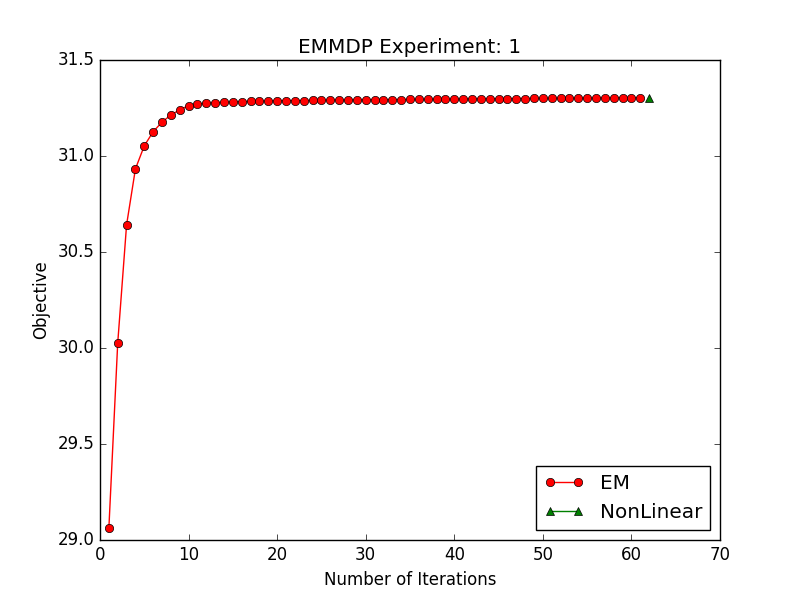
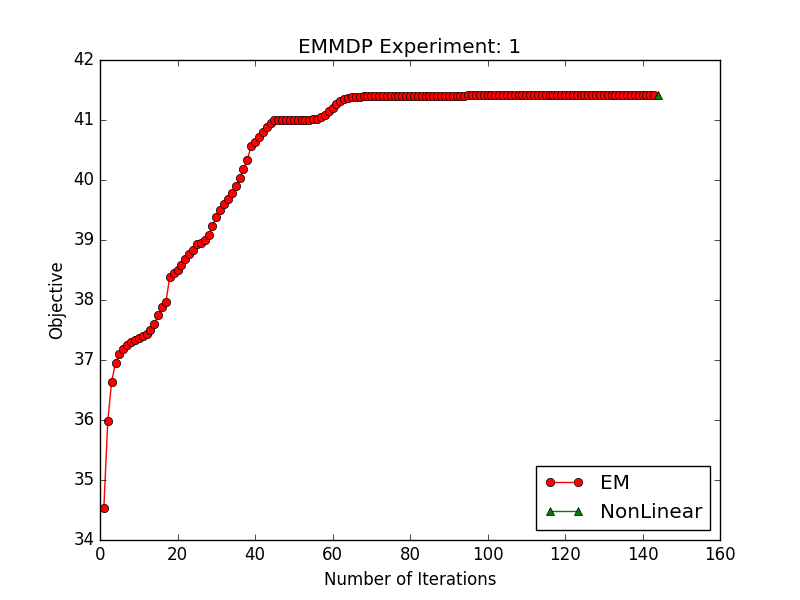
WhS

diff --git a/src/config.py b/src/config.py
@@ -66,7 +66,7 @@ if flag == 0:
 
     nloc = [len(lo) for lo in locs]
     for i in xrange(0, agents):
-        t = 2**random.randint(totalPow-1, totalPow)
+        t = 2**random.randint(totalPow-2, totalPow)
         collectTimes.append([t] * nloc[i])
         transitTimes.append([[t] * nloc[i]] * nloc[i])
 
